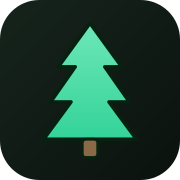
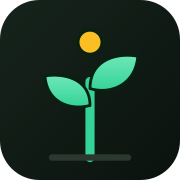
Rename Evergreen → Perennial; add Pages deploy workflow
New name, same idea — comes back every season. Case-aware rename across
source, manifest, page title, localStorage key prefixes (perennial-*),
backup format tag, and the onboarding wordmark. Icon redrawn: a returning
sprout with a bud instead of the tree. Fresh README (the copied soccer
docs are gone), and a GitHub Actions Pages workflow — no secrets needed,
Perennial has no backend.

Changed region(s): [[0.25, 0.1389, 0.7778, 0.9167]]

diff --git a/src/lib/rx.js b/src/lib/rx.js
@@ -1,4 +1,4 @@
-// Prescription helpers — Evergreen keeps this deliberately simple.
+// Prescription helpers — Perennial keeps this deliberately simple.
 //
 // No percentages, no periodization math. Loads are seeded from your own last
 // session (see SetTable + setAdjust); rest is a friendly default you can
@@ -15,7 +15,7 @@ export function getRestTime(context) {
 }
 
 // Longer rest after harder sets, shorter after easy ones. Target effort in
-// Evergreen is ~7 ("2-3 reps left in the tank").
+// Perennial is ~7 ("2-3 reps left in the tank").
 export function rpeRestAdjust(rpe) {
   if (rpe == null) return 0;
   if (rpe <= 6)   return -15;
@@ -24,14 +24,14 @@ export function rpeRestAdjust(rpe) {
   return 30;
 }
 
-// SetTable compat: Evergreen has no %1RM math — recommendations come purely
+// SetTable compat: Perennial has no %1RM math — recommendations come purely
 // from your own logged history (seedBaseRec handles that). Returning 0 here
 // means "no calculated load", which the seeding path treats as absent.
 export function calcLoad() {
   return 0;
 }
 
-// Session rows carry a phase field in the original schema; Evergreen has a
+// Session rows carry a phase field in the original schema; Perennial has a
 // single steady phase.
 export function getPhase() {
   return 'steady';

diff --git a/src/lib/localdb.js b/src/lib/localdb.js
@@ -10,10 +10,10 @@
 // beats sync infrastructure for a personal training log.
 
 const KEYS = {
-  sessions: 'evergreen-sessions',
-  sets: 'evergreen-sets',
-  perf: 'evergreen-perf',
-  notes: 'evergreen-notes',
+  sessions: 'perennial-sessions',
+  sets: 'perennial-sets',
+  perf: 'perennial-perf',
+  notes: 'perennial-notes',
 };
 
 function read(key, fallback) {
@@ -132,7 +132,7 @@ export function setNote(exerciseKey, exerciseName, note) {
 export function exportAll() {
   return JSON.stringify(
     {
-      app: 'evergreen',
+      app: 'perennial',
       version: 1,
       exported_at: new Date().toISOString(),
       sessions: read(KEYS.sessions, []),
@@ -148,8 +148,8 @@ export function exportAll() {
 export function importAll(json) {
   let data;
   try { data = JSON.parse(json); } catch { return { ok: false, error: 'That file is not valid JSON.' }; }
-  if (data?.app !== 'evergreen' || !Array.isArray(data.sessions)) {
-    return { ok: false, error: 'That does not look like an Evergreen backup.' };
+  if (data?.app !== 'perennial' || !Array.isArray(data.sessions)) {
+    return { ok: false, error: 'That does not look like an Perennial backup.' };
   }
   write(KEYS.sessions, data.sessions);
   write(KEYS.sets, data.sets ?? []);

diff --git a/src/screens/SettingsScreen.jsx b/src/screens/SettingsScreen.jsx
@@ -39,8 +39,8 @@ export function SettingsScreen() {
     const json = exportAll();
     try {
       if (navigator.share) {
-        const file = new File([json], `evergreen-backup-${new Date().toISOString().slice(0, 10)}.json`, { type: 'application/json' });
-        await navigator.share({ files: [file], title: 'Evergreen backup' });
+        const file = new File([json], `perennial-backup-${new Date().toISOString().slice(0, 10)}.json`, { type: 'application/json' });
+        await navigator.share({ files: [file], title: 'Perennial backup' });
         setBackupMsg('Shared ✓');
         return;
       }
@@ -128,7 +128,7 @@ export function SettingsScreen() {
       {backupMsg && <div className={styles.backupMsg}>{backupMsg}</div>}
 
       <p className={styles.about}>
-        Evergreen · a simple plan for being strong at every age.
+        Perennial · a simple plan for being strong at every age.
       </p>
     </main>
   );

diff --git a/index.html b/index.html
@@ -10,7 +10,7 @@
     <meta name="mobile-web-app-capable" content="yes" />
     <meta name="apple-mobile-web-app-capable" content="yes" />
     <meta name="apple-mobile-web-app-status-bar-style" content="black-translucent" />
-    <meta name="apple-mobile-web-app-title" content="Evergreen" />
+    <meta name="apple-mobile-web-app-title" content="Perennial" />
     <link rel="apple-touch-icon" href="/apple-touch-icon.png" />
 
     <!-- Icons -->
@@ -24,7 +24,7 @@
       rel="stylesheet"
     />
 
-    <title>Evergreen — Fit for Life</title>
+    <title>Perennial — Fit for Life</title>
   </head>
   <body>
     <div id="root"></div>

diff --git a/src/components/SetTable.jsx b/src/components/SetTable.jsx
@@ -8,7 +8,7 @@ import { useRestTimer } from '../stores/restTimerStore';
 // SetTable — owns per-set local state for one exercise, buffers each
 // completed set into the session store, and triggers the rest timer.
 //
-// Evergreen has no %1RM math: the weight recommendation seeds entirely from
+// Perennial has no %1RM math: the weight recommendation seeds entirely from
 // YOUR last session's top set (setAdjust closes the loop within a session).
 // First time on an exercise there's simply no recommendation — pick something
 // that leaves 2-3 reps in the tank.

diff --git a/src/screens/OnboardingScreen.jsx b/src/screens/OnboardingScreen.jsx
@@ -19,8 +19,8 @@ export function OnboardingScreen() {
 
   return (
     <main className={`screen ${styles.wrap}`}>
-      <div className={styles.leaf}>🌲</div>
-      <div className="title-xl">EVERGREEN</div>
+      <div className={styles.leaf}>🌱</div>
+      <div className="title-xl">PERENNIAL</div>
       <p className={styles.tagline}>
         Strength, movement, and breath — a simple plan for being fit at 40,
         60, and beyond. Three short sessions a week. Everything stays on your

diff --git a/src/styles/tokens.css b/src/styles/tokens.css
@@ -1,4 +1,4 @@
-/* ─── DESIGN TOKENS — Evergreen ───────────────────────────── */
+/* ─── DESIGN TOKENS — Perennial ───────────────────────────── */
 /* Deep forest-night base, warm emerald accent. Calm, adult, readable.
    Variable NAMES match the component library (--green is the primary
    accent, --blue the secondary) so components need no forking. */

diff --git a/vite.config.js b/vite.config.js
@@ -18,8 +18,8 @@ export default defineConfig(({ mode }) => {
       registerType: 'autoUpdate',
       includeAssets: ['favicon.svg', 'apple-touch-icon.png'],
       manifest: {
-        name: 'Evergreen — Fit for Life',
-        short_name: 'Evergreen',
+        name: 'Perennial — Fit for Life',
+        short_name: 'Perennial',
         description: 'A simple, equipment-aware strength and movement plan for being fit at every age.',
         start_url: '.',
         scope: '.',

diff --git a/src/lib/timerSound.js b/src/lib/timerSound.js
@@ -7,7 +7,7 @@
 // needs the native (Capacitor) wrap, where this same clip can become the local
 // notification sound. See the RestTimer discussion.
 
-const KEY = 'evergreen-timer-sound';
+const KEY = 'perennial-timer-sound';
 // Keep clips short. A ~5s voice clip is well under this; the cap protects the
 // ~5MB localStorage quota (data URLs are strings, and base64 adds ~33%).
 const MAX_CHARS = 700 * 1024;

diff --git a/src/App.jsx b/src/App.jsx
@@ -16,7 +16,7 @@ import { saveSession } from './lib/localdb';
 import { DAYS, WARMUP } from './data/program';
 
 // Persist the active bottom-nav tab so an Android Chrome reload restores it.
-const TAB_KEY = 'evergreen-tab';
+const TAB_KEY = 'perennial-tab';
 const VALID_TABS = ['today', 'workout', 'history', 'settings'];
 function readPersistedTab() {
   try {

diff --git a/src/stores/slotStore.js b/src/stores/slotStore.js
@@ -42,7 +42,7 @@ export const useSlotStore = create(
       getChoice: (slotId) => get().today[slotId] ?? get().always[slotId] ?? null,
     }),
     {
-      name: 'evergreen-slots',
+      name: 'perennial-slots',
       storage: createJSONStorage(() => localStorage),
       partialize: (s) => ({ always: s.always }),
     }

diff --git a/src/data/exercises.js b/src/data/exercises.js
@@ -1,4 +1,4 @@
-// Evergreen exercise library — movement for the next forty years.
+// Perennial exercise library — movement for the next forty years.
 //
 // Written for an adult easing into (or back into) training. Every cue is
 // plain language, every prescription leaves reps in the tank. The athletic
